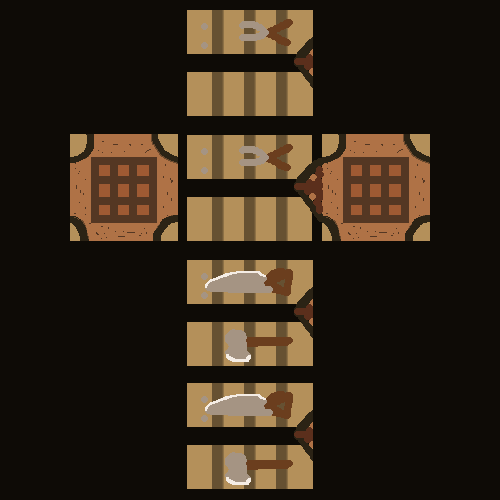
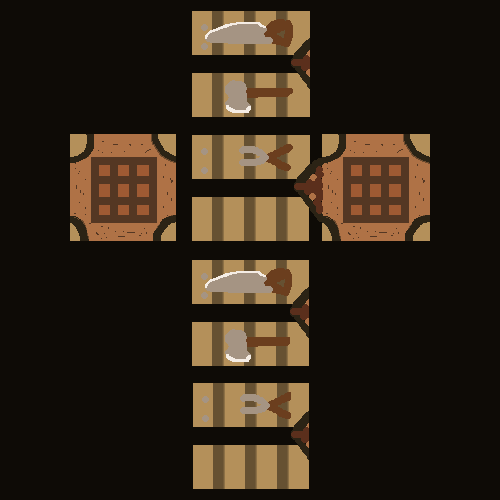
adding fornance and cobblestone

diff --git a/modulos/classes.py b/modulos/classes.py
@@ -11,9 +11,9 @@ def player_():
     MainVariables.player = FirstPersonController(jump_height=1.65, speed=4, gravity=1)
     player_foi = True
     texture_list = {0: MainVariables.grama_txtr,
-                    1: color.gold,
+                    1: MainVariables.pedra_txtr,
                     2: MainVariables.table_txtr,
-                    3: color.white,
+                    3: MainVariables.fornalha_txtr,
                     4: color.black,
                     5: color.pink}
     mob_frames = [MainVariables.ghost_1, MainVariables.ghost_2, MainVariables.ghost_3, MainVariables.ghost_4]
@@ -25,22 +25,36 @@ class MainVariables:
     limites = None
     player = Entity()
     hp = 10
+
+    # blocks
     table_txtr = None
-    porquin_txtr = None
     grama_txtr = None
-    table_icon = None
-    grama_icon = None
     braco_txtr = None
     terra_txtr = None
+    pedra_txtr = None
+    fornalha_txtr = None
+    block = 'carga_roubada/texturas/models/block'
+
+    # icons 
+    table_icon = None
+    grama_icon = None
+    pedra_icon = None
+    fornalha_icon = None
+
+    # sounds
     mob_sound = None
     mob_sound2 = None
     ghost_sound = None
     ghost_hit_sound = None
+
+    # animals 
+    porquin_txtr = None
     vaquinha_txtr = None
-    ghost_puto = None
-    block = 'carga_roubada/texturas/models/block'
     vaquinha_model = 'carga_roubada/texturas/models/vaquinha_model'
     porquin_model = 'carga_roubada/texturas/models/porquin_model'
+
+    # ghost textures
+    ghost_puto = None
     ghost_0 = None
     ghost_1 = None
     ghost_2 = None
@@ -243,11 +257,11 @@ class SetInventoryItems:
         slot1 = InventoryItems(position=(slot_coordinate["slot1"], -0.36),
                                texture=MainVariables.grama_icon)
         slot2 = InventoryItems(position=(slot_coordinate["slot2"], -0.36),
-                                )
+                               texture=MainVariables.pedra_icon)
         slot3 = InventoryItems(position=(slot_coordinate["slot3"], -0.36),
                                texture=MainVariables.table_icon)
         slot4 = InventoryItems(position=(slot_coordinate["slot4"], -0.36),
-                               )
+                               texture=MainVariables.fornalha_icon)
         slot5 = InventoryItems(position=(slot_coordinate["slot5"], -0.36),
                                )
         slot6 = InventoryItems(position=(slot_coordinate["slot6"], -0.36),

diff --git a/main.py b/main.py
@@ -137,14 +137,20 @@ carga_roubada = {
     'vaquinha_txtr': load_texture('carga_roubada/texturas/mobs/vaquinha_txtr.png'),
     'braco_txtr'   : load_texture('carga_roubada/texturas/blocos/braco_txtr.png'),
     'table_txtr'   : load_texture('carga_roubada/texturas/blocos/table_txtr.png'),
+    'fornalha_txtr': load_texture('carga_roubada/texturas/blocos/fornalha_txtr.png'),
     'grama_txtr'   : load_texture('carga_roubada/texturas/blocos/grama_txtr.png'),
     'terra_txtr'   : load_texture('carga_roubada/texturas/blocos/terra_txtr.png'),
+    'pedra_txtr'   : load_texture('carga_roubada/texturas/blocos/pedra_txtr.png'),
+
 
     'ghost_puto'   : load_texture('carga_roubada/texturas/mobs/ghost_txtr/ghost_putasso.png'),
 
     # icons
-    'table_icon': load_texture('carga_roubada/texturas/blocos/icons/table_icon.png'),
-    'grama_icon': load_texture('carga_roubada/texturas/blocos/icons/grama_icon.png'),
+    'table_icon'   : load_texture('carga_roubada/texturas/blocos/icons/table_icon.png'),
+    'grama_icon'   : load_texture('carga_roubada/texturas/blocos/icons/grama_icon.png'),
+    'pedra_icon'   : load_texture('carga_roubada/texturas/blocos/icons/pedra_icon.png'),
+    'fornalha_icon': load_texture('carga_roubada/texturas/blocos/icons/fornalha_icon.png'),
+
 
     #sounds
     'mob_sound'      : Audio('mob_sound', loop=False, autoplay=False, volume=.05),
@@ -159,17 +165,23 @@ for frame in ['0', '1', '2', '3', '4']:
 carga_roubada.update(updict)
 
 # send to modulos
-# textures
+# Animals
 MainVariables.porquin_txtr = carga_roubada['porquin_txtr']
 MainVariables.vaquinha_txtr = carga_roubada['vaquinha_txtr']
+
+# blocks
 MainVariables.braco_txtr = carga_roubada['braco_txtr']
 MainVariables.table_txtr = carga_roubada['table_txtr']
 MainVariables.grama_txtr = carga_roubada['grama_txtr']
 MainVariables.terra_txtr = carga_roubada['terra_txtr']
+MainVariables.pedra_txtr = carga_roubada['pedra_txtr']
+MainVariables.fornalha_txtr = carga_roubada['fornalha_txtr']
 
 # icons
 MainVariables.table_icon = carga_roubada['table_icon']
 MainVariables.grama_icon = carga_roubada['grama_icon']
+MainVariables.pedra_icon = carga_roubada['pedra_icon']
+MainVariables.fornalha_icon = carga_roubada['fornalha_icon']
 
 # ghost frames
 MainVariables.ghost_0 = carga_roubada['ghost_0']
